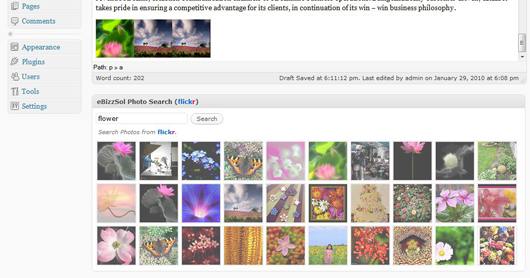
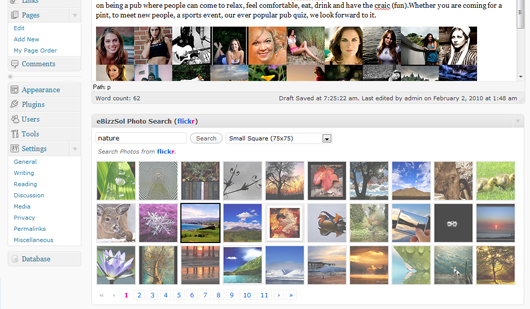
Pagination Added
git-svn-id: https://plugins.svn.wordpress.org/ebizzsol-photo-search/trunk@200913 b8457f37-d9ea-0310-8a92-e5e31aec5664

diff --git a/js/ebsPs.js b/js/ebsPs.js
@@ -36,32 +36,35 @@ $j(function(){
             $j(this).siblings('.taghint').css('visibility', '');
     }).focus(function(){
         $j(this).siblings('.taghint').css('visibility', 'hidden');
-    }).keyup(function(e){
-        if ( 13 == e.which ) {
-            ebsPsJsSearch();
-            return false;
-        }
     }).keypress(function(e){
         if ( 13 == e.which ) {
-            ebsPsJsSearch();
+            ebsPsJsSearch(1);
             e.preventDefault();
             return false;
         }
     });
     
     $j('#ebsPsSearch').click(function(e){
-        ebsPsJsSearch();
+        ebsPsJsSearch(1);
         e.preventDefault();
         return false;
     });
     
 });
 
-function ebsPsJsSearch() {
+var ebsPsBusy = false;
+function ebsPsJsSearch(cur) {
+    
+    cur = parseInt(cur);
+    if(ebsPsBusy) return;
+    ebsPsBusy = true;
     $j('#ebsPsLoader').fadeIn();
-    $j.getJSON("http://api.flickr.com/services/rest/?api_key=1b21384bd8bc85c3b67e667e8a076e58&method=flickr.photos.search&per_page=30&sort=relevance&text="+escape($j('#ebsPsSearchTerm').val())+"&extras=owner_name&format=json&jsoncallback=?",
+    $j.getJSON("http://api.flickr.com/services/rest/?api_key=1b21384bd8bc85c3b67e667e8a076e58&method=flickr.photos.search&per_page=30&sort=relevance&text="+escape($j('#ebsPsSearchTerm').val())+"&page="+cur+"&extras=owner_name&format=json&jsoncallback=?",
     function(data){
-        //alert(data.photos.total);
+        
+        var total = data.photos.total;
+        var page = Math.ceil(total/30);
+        
         $j('#ebsPsLoader').fadeOut();
         $j('#ebsPsImages').empty();
         $j.each(data.photos.photo, function(i,item){
@@ -86,7 +89,49 @@ function ebsPsJsSearch() {
                 }
             }).appendTo("#ebsPsImages");
         });
-    });    
+        
+        if(page>1) {
+            var pagination = $j("<div>").addClass('ebsPsPagination');
+            
+            var i;
+            // Prev Button
+            i = cur-1;
+            if(i==0) {
+                pagination.append($j("<span>").html('&laquo;').addClass('this-page con'));
+                pagination.append($j("<span>").html('&#139;').addClass('this-page con'));
+            } else {
+                pagination.append($j("<a>").attr("href", 'javascript://').attr("onclick", 'ebsPsJsSearch(1)').html('&laquo;'));
+                pagination.append($j("<a>").attr("href", 'javascript://').attr("onclick", 'ebsPsJsSearch('+i+')').html('&#139;'));
+            }
+            
+            var c = 0;
+            var s = cur - 5;
+            if(s < 1) s = 1;
+            for(i = s; (i <= page) && (c < 11); ++i, c++) {
+                if(i==cur) {
+                    var tmp = $j("<span>").html(i).addClass('this-page');
+                } else {
+                    var tmp = $j("<a>").attr("href", 'javascript://').attr("onclick", 'ebsPsJsSearch('+i+')').html(i);
+                }
+                
+                pagination.append(tmp);
+            }
+            
+            // Next Button
+            i = cur+1;
+            if(cur==page) {
+                pagination.append($j("<span>").html('&raquo;').addClass('this-page con'));
+                pagination.append($j("<span>").html('&#155;').addClass('this-page con'));
+            } else {
+                pagination.append($j("<a>").attr("href", 'javascript://').attr("onclick", 'ebsPsJsSearch('+i+')').html('&#155;'));
+                pagination.append($j("<a>").attr("href", 'javascript://').attr("onclick", 'ebsPsJsSearch('+page+')').html('&raquo;'));
+            }
+            
+            pagination.appendTo("#ebsPsImages");
+        }
+        
+    });
+    ebsPsBusy = false;
     return false;
 }
 

diff --git a/css/style.css b/css/style.css
@@ -21,3 +21,30 @@
     background: transparent;
     position: relative;
 }
+.ebsPsPagination {
+    font-size:12px;
+    line-height:22px;
+    margin-left:auto;
+    margin-right:auto;
+    padding-top:6px;
+}
+.ebsPsPagination a {
+    height: 16px;
+    background:none repeat scroll 0 0 #fff;
+    border:1px solid #eee;
+    padding:2px 6px;
+    text-decoration:none;
+    color:#0063dc;
+    margin:0 2px;
+}
+.ebsPsPagination .this-page {
+    background:none repeat scroll 0 0 #fff;
+    color:#ff0084;
+    font-weight:bold;
+    padding:2px 6px;
+    vertical-align:top;
+    margin:0 2px;
+}
+.ebsPsPagination .con {
+    color: #bbb;
+}

diff --git a/ebizzsol-photo-search.php b/ebizzsol-photo-search.php
@@ -3,7 +3,7 @@
 Plugin Name: eBizzSol Photo Search
 Plugin URI: http://eBizzSol.com/
 Description: A Photo Search Plugins for WordPress.
-Version: 0.0.3
+Version: 0.0.4
 Author: eBizzSol
 Author URI: http://www.ebizzsol.com
 */
